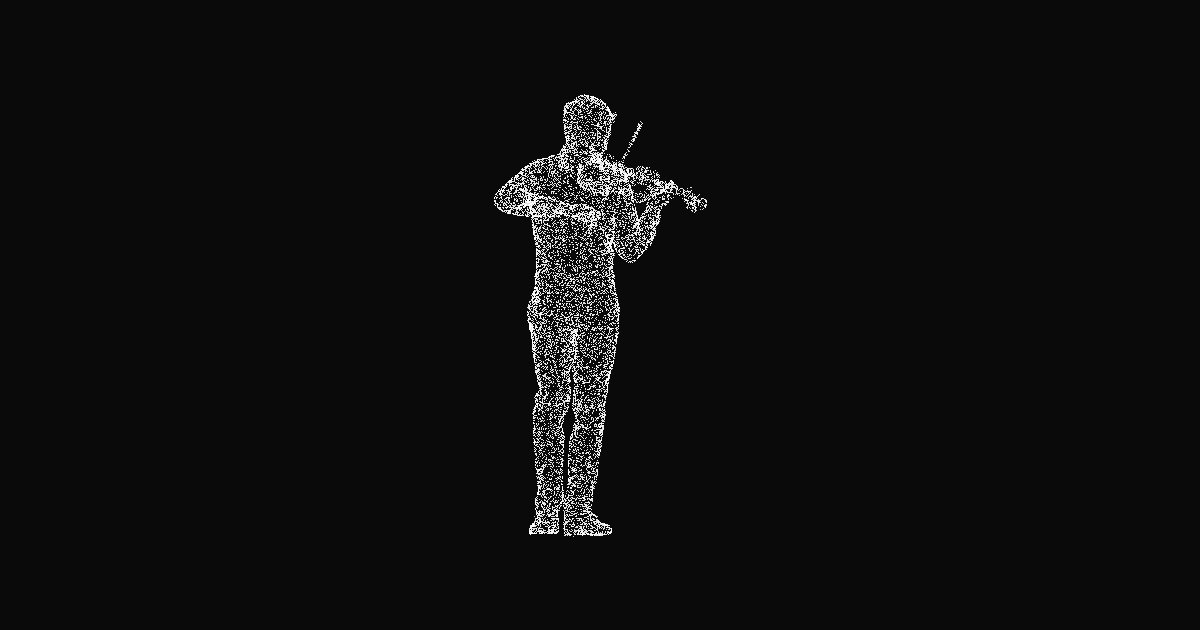
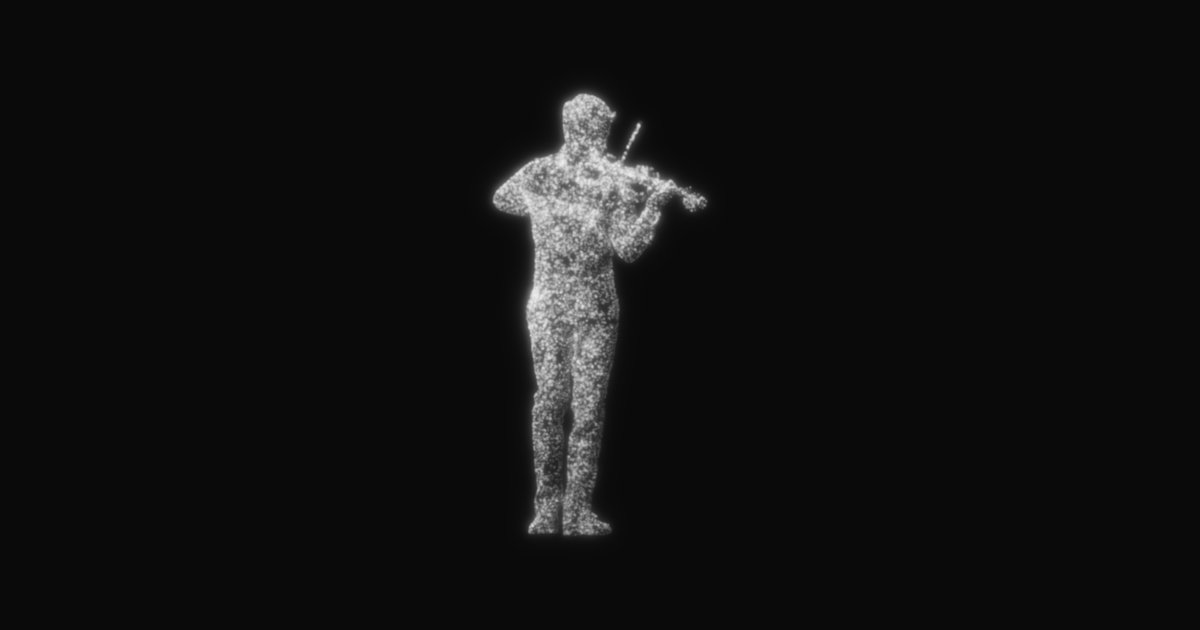
chore(ti): re-render still and og
render_still now draws in the field's new look so the no-WebGL fallback and the social image match the page: the same point shading from the .nrm normals (wrapped key light, darker far side and feet, faint rim, projected-area weighting), Gaussian dots sized with the figure and grown by depth of field with their light conserved, the page's three-level halo radii scaled to the figure, and its tone curve from #0A0A0A up to #EDEDED. still.png 143 KB (was 97 KB), og.jpg 20 KB (was 38 KB). Point data regenerates byte-identical.

Test: a surface facing the key light renders brighter than the same surface facing away, and shadows never go fully black.

Changed region(s): [[0.4008, 0.1206, 0.5858, 0.8746]]

diff --git a/scripts/ti_points.py b/scripts/ti_points.py
@@ -14,8 +14,8 @@ Outputs, under --out (default assets/ti/):
                        value = round(n * 127); same order as the .bin
   points/index.json    {"count", "scale", "performers": [{id, en, ja, section}]}
                        in manifest order
-  img/still.png        1200x1500 white-dot render of one performer on #0A0A0A
-                       (shown when WebGL is unavailable)
+  img/still.png        1200x1500 soft, shaded render of one performer on #0A0A0A,
+                       in the page field's look (shown when WebGL is unavailable)
   img/og.jpg           1200x630 social image from the same render
 
 `scale` is 2.0 unless some performer reaches further than that from the origin
@@ -122,23 +122,68 @@ def en_label(performer_id):
     return performer_id.replace("_", " ").capitalize()
 
 
-def render_still(pts, size, yaw=0.35, fill=0.70):
-    """Orthographic view, turned `yaw` rad about y: additive white dots on #0A0A0A, figure centred and `fill` of the height."""
+def _blur(a, r):
+    """Approximate Gaussian blur (sigma ~ r): three box blurs of radius r along each axis."""
+    r = max(1, int(round(r)))
+    for axis in (0, 1):
+        for _ in range(3):
+            c = np.cumsum(np.pad(a, [(r + 1, r) if ax == axis else (0, 0) for ax in (0, 1)]), axis=axis)
+            a = (np.take(c, range(2 * r + 1, c.shape[axis]), axis=axis) - np.take(c, range(0, c.shape[axis] - 2 * r - 1), axis=axis)) / (2 * r + 1)
+    return a
+
+
+def shade(nrm, y):
+    """field.js's point light (keep in step with its LOOK): wrapped key from the upper
+    front-left, darker far side and feet, faint rim, edge-on surfaces weighted by |n.z|."""
+    key = np.maximum(nrm @ np.array([-0.544, 0.593, 0.593]) + 0.5, 0) / 1.5
+    nz = nrm[:, 2]
+    step = lambda e0, e1, x: (lambda t: t * t * (3 - 2 * t))(np.clip((x - e0) / (e1 - e0), 0, 1))
+    lit = (0.06 + 0.94 * key) * (0.22 + 0.78 * step(-0.5, 0.35, nz)) + 0.12 * (1 - np.abs(nz)) ** 3
+    return lit * (0.6 + 0.4 * step(-1, 0.15, y)) * (0.3 + 0.7 * np.abs(nz))
+
+
+def render_still(pts, size, yaw=0.35, fill=0.70, normals=None):
+    """Orthographic view turned `yaw` rad about y, in field.js's look: Gaussian dots of light
+    sized with the figure, shaded by `normals` when given, with depth of field, a faint halo
+    and the page's tone curve from #0A0A0A up to #EDEDED. Figure centred, `fill` of the height."""
     w, h = size
-    x = pts[:, 0] * math.cos(yaw) + pts[:, 2] * math.sin(yaw)
-    s = fill * h / 2  # y spans -1..+1
-    ix = np.rint((x - (x.min() + x.max()) / 2) * s + w / 2).astype(int)
-    iy = np.rint(h / 2 - pts[:, 1] * s).astype(int)
-    # large renders get a 3x3 soft dot; small ones (og.jpg) single pixels, or the figure clots
-    kernel, gain = (((-1, 0.5), (0, 1.0), (1, 0.5)), 0.5) if h >= 1000 else (((0, 1.0),), 0.85)
+    c, sn = math.cos(yaw), math.sin(yaw)
+    x, z = pts[:, 0] * c + pts[:, 2] * sn, -pts[:, 0] * sn + pts[:, 2] * c
+    s = fill * h / 2  # px per unit: y spans -1..+1
+    k = s / 220       # this figure against the page's hero (~220 px per unit)
+    fx = (x - (x.min() + x.max()) / 2) * s + w / 2
+    fy = h / 2 - pts[:, 1] * s
+    lit = np.ones(len(pts))
+    if normals is not None:
+        n = np.asarray(normals, dtype=np.float64)
+        lit = shade(np.stack([n[:, 0] * c + n[:, 2] * sn, n[:, 1], -n[:, 0] * sn + n[:, 2] * c], axis=1), pts[:, 1])
+    # the page's dot: 5.2 px x (.8 + .35 lit), grown by depth of field (9 px per unit off the
+    # centre plane) with the same light spread over it; Gaussian with sigma = .177 x diameter
+    d0 = 5.2 * k * (0.8 + 0.35 * lit)
+    dia = np.hypot(d0, 9 * k * np.abs(z))
+    peak = 0.24 * lit * (d0 / dia) ** 2
+    ix, iy = np.floor(fx).astype(int), np.floor(fy).astype(int)
+    ox, oy = fx - ix, fy - iy
     acc = np.zeros(w * h)
-    for dy, wy in kernel:
-        for dx, wx in kernel:
-            xx, yy = ix + dx, iy + dy
-            ok = (xx >= 0) & (xx < w) & (yy >= 0) & (yy < h)
-            acc += np.bincount(yy[ok] * w + xx[ok], minlength=w * h) * (wx * wy)
-    grey = np.minimum(BG + 255 * gain * acc, 255).astype(np.uint8)
-    return Image.fromarray(grey.reshape(h, w))
+    edges = np.quantile(dia, [0, 0.3, 0.6, 0.85, 1])  # a few blur sizes instead of one per point
+    band = np.clip(np.searchsorted(edges, dia, side="right") - 1, 0, len(edges) - 2)
+    for b in range(len(edges) - 1):
+        sel = band == b
+        if not sel.any():
+            continue
+        sigma = max(0.45, 0.177 * float(dia[sel].mean()))
+        r = int(np.ceil(3 * sigma))
+        for dy in range(-r, r + 1):
+            for dx in range(-r, r + 1):
+                g = np.exp(-((dx + 0.5 - ox[sel]) ** 2 + (dy + 0.5 - oy[sel]) ** 2) / (2 * sigma * sigma))
+                xx, yy = ix[sel] + dx, iy[sel] + dy
+                ok = (xx >= 0) & (xx < w) & (yy >= 0) & (yy < h)
+                acc += np.bincount(yy[ok] * w + xx[ok], weights=(peak[sel] * g)[ok], minlength=w * h)
+    light = acc.reshape(h, w)
+    # the page's halo (glow.js): blurred copies at about 3, 6 and 13 px, scaled to this figure
+    light = light + sum(wt * _blur(light, rad * k) for wt, rad in ((0.5, 3.2), (0.32, 6.4), (0.22, 12.8)))
+    grey = BG + (237 - BG) * (1 - np.exp(-2.2 * light))
+    return Image.fromarray(np.rint(grey).astype(np.uint8))
 
 
 def main():
@@ -180,9 +225,10 @@ def main():
     }
     (points / "index.json").write_text(json.dumps(index, ensure_ascii=False, separators=(",", ":")), encoding="utf-8")
 
-    still = clouds[args.still if args.still in clouds else performers[0]["id"]]
-    render_still(still, STILL_SIZE).save(img / "still.png", optimize=True)
-    render_still(still, OG_SIZE).convert("RGB").save(img / "og.jpg", quality=85, optimize=True)
+    sid = args.still if args.still in clouds else performers[0]["id"]
+    still, still_n = clouds[sid], normals[sid]
+    render_still(still, STILL_SIZE, normals=still_n).save(img / "still.png", optimize=True)
+    render_still(still, OG_SIZE, normals=still_n).convert("RGB").save(img / "og.jpg", quality=85, optimize=True)
     print(f"{len(clouds)} performers x {args.count} points, scale {scale} -> {args.out}")
 
 

diff --git a/scripts/test_ti.py b/scripts/test_ti.py
@@ -112,7 +112,7 @@ class Still(unittest.TestCase):
         # a tall thin figure: x/z within 0.2, y from -1 to +1
         rng = np.random.default_rng(2)
         pts = tp.normalise((rng.random((4000, 3)) * [0.2, 1.0, 0.2]).astype(np.float32))
-        for w, h in [(300, 400), (1200, 1500)]:  # small renders use 1px dots, large ones a soft 3x3 dot
+        for w, h in [(300, 400), (1200, 1500)]:  # soft dots scale with the figure; halo stays faint
             with self.subTest(size=(w, h)):
                 img = tp.render_still(pts, (w, h))
                 self.assertEqual(img.size, (w, h))
@@ -126,6 +126,15 @@ class Still(unittest.TestCase):
                 self.assertAlmostEqual((cols[0] + cols[-1]) / 2 / w, 0.5, delta=0.02)
                 # greyscale dots: no tint
                 self.assertTrue(np.all(a[..., 0] == a[..., 1]) and np.all(a[..., 1] == a[..., 2]))
+
+    def test_shading_lights_surfaces_facing_the_key(self):
+        # the same flat card twice: normals toward the key light (upper front-left) vs away
+        rng = np.random.default_rng(3)
+        pts = tp.normalise((rng.random((6000, 3)) * [0.4, 1.0, 0.0]).astype(np.float32))
+        lit_n = np.tile(np.array([-0.55, 0.6, 0.6], np.float32) / 1.011, (6000, 1))
+        mean = lambda n: np.asarray(tp.render_still(pts, (300, 400), yaw=0, normals=n), dtype=np.float64).mean()
+        self.assertGreater(mean(lit_n), 1.5 * mean(-lit_n))
+        self.assertGreater(mean(-lit_n), 10.05)  # shadows never go fully black
 
 
 class Media(unittest.TestCase):
